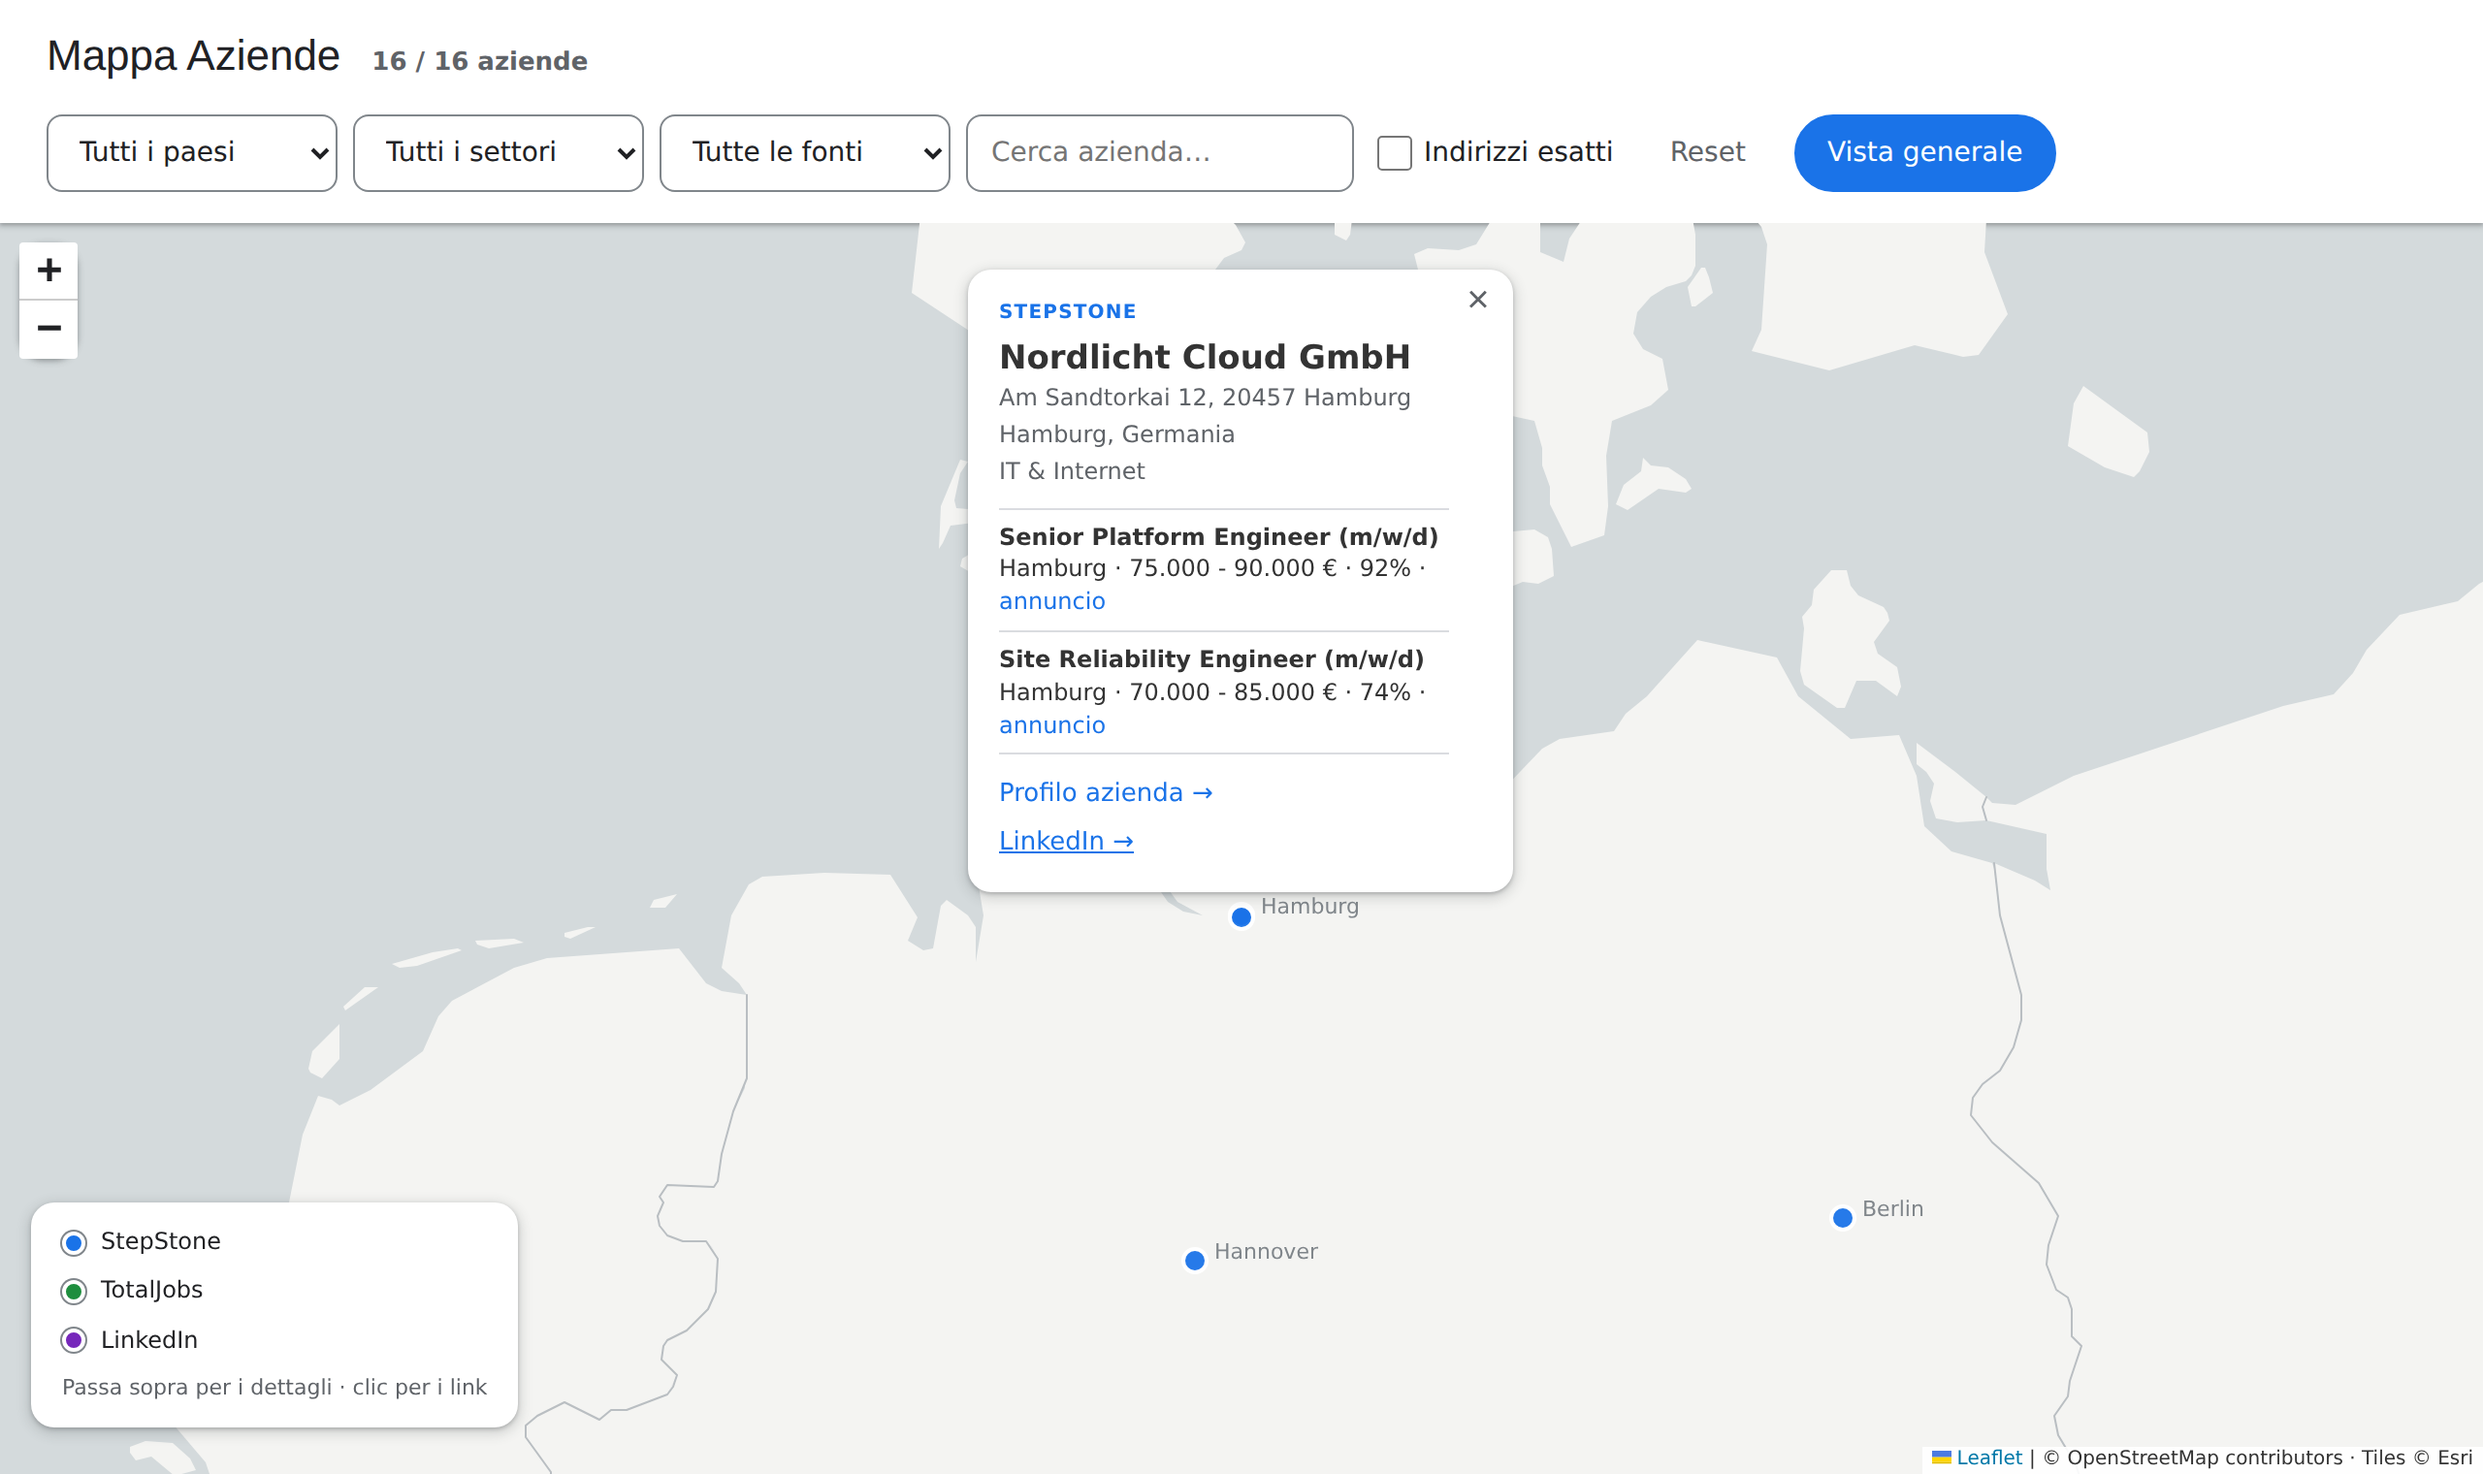
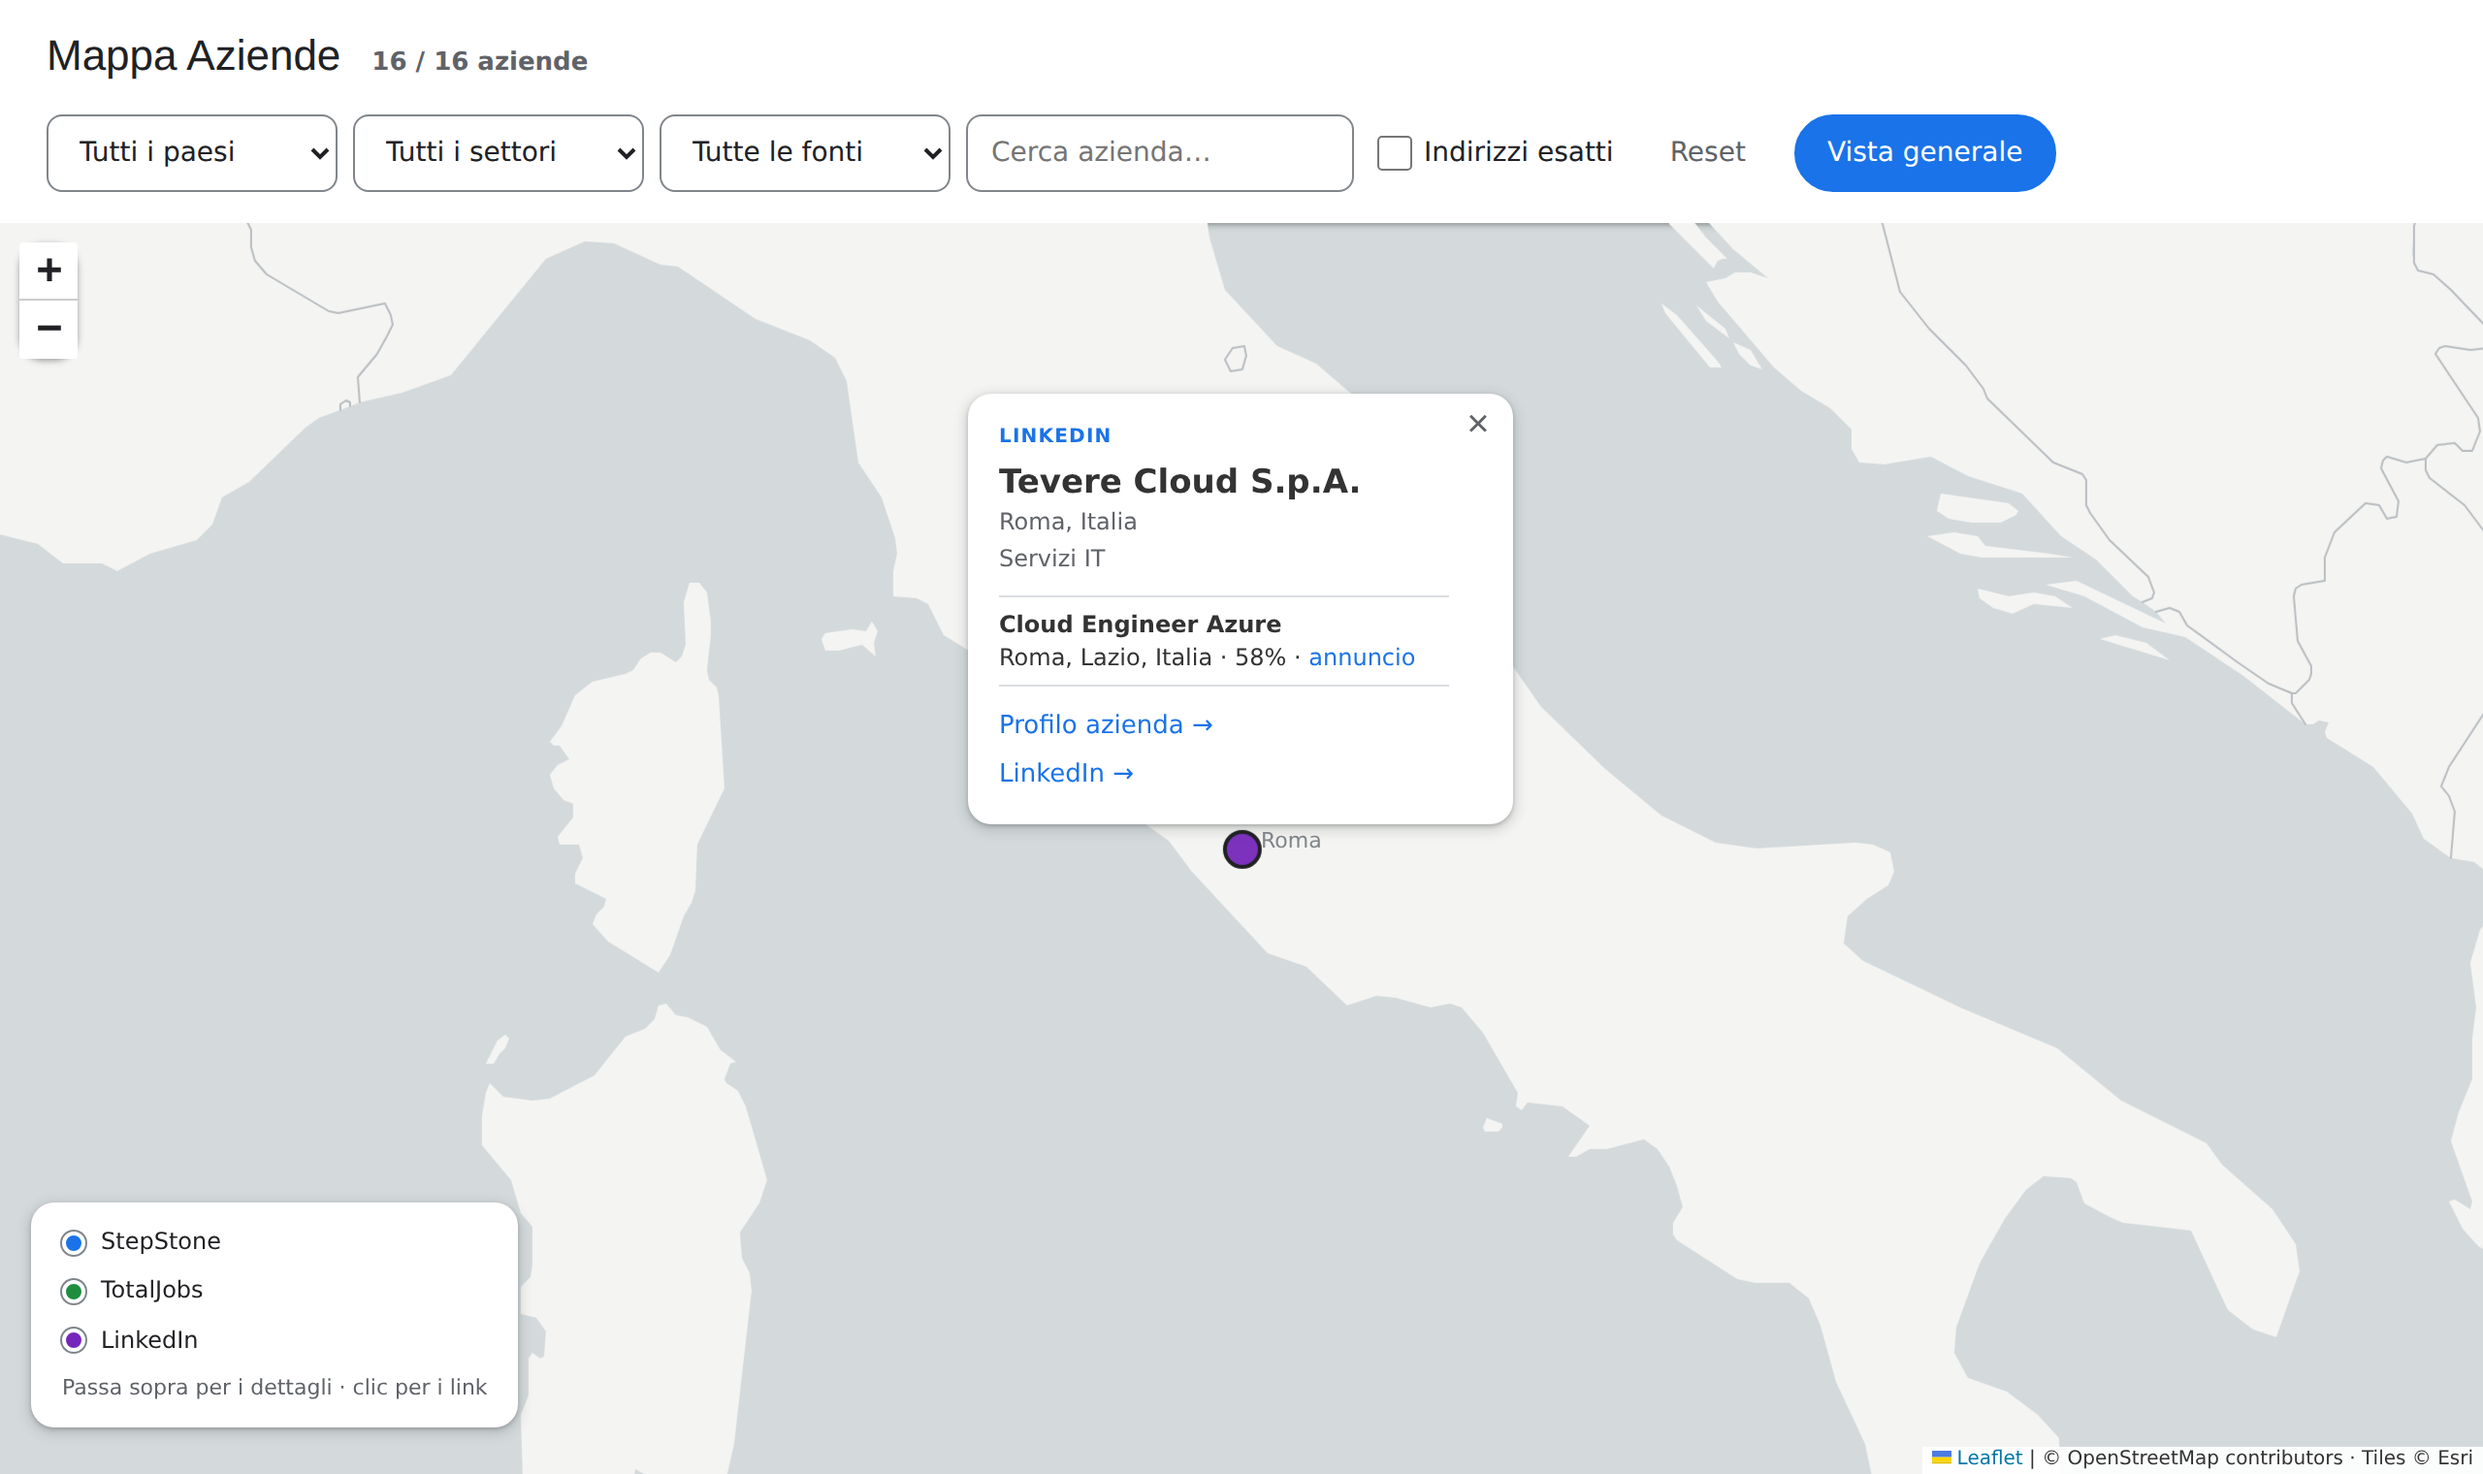
Center README map screenshots on Rome
Claude-Session: https://claude.ai/code/session_01WE1ZoCnNu9hCNJXKZp3jeu

diff --git a/docs/tools/screenshots.js b/docs/tools/screenshots.js
@@ -209,21 +209,23 @@ const settle = (page, ms = 400) => page.waitForTimeout(ms);
     await page.context().close();
   }
 
-  // Mappa: panoramica e scheda di un'azienda
+  // Mappa: panoramica e scheda di un'azienda, entrambe centrate su Roma
+  const ROMA = [41.903, 12.496];
   {
     const store = resultsStore();
     const page = await openPage(browser, 'map.html', store, { width: 1280, height: 760 });
     await settle(page, 600);
     await drawBasemap(page);
+    await page.evaluate((ll) => window.__map.setView(ll, 5, { animate: false }), ROMA);
     await settle(page, 300);
     await shot(page, 'mappa.png');
 
-    // scheda di Nordlicht (Hamburg): clic sul marker
-    const pt = await page.evaluate(() => {
+    // scheda di Tevere Cloud (Roma): clic sul marker
+    const pt = await page.evaluate((ll) => {
       const m = window.__map;
-      m.setView([53.551, 9.994], 7, { animate: false });
-      return m.latLngToContainerPoint([53.551, 9.994]);
-    });
+      m.setView(ll, 7, { animate: false });
+      return m.latLngToContainerPoint(ll);
+    }, ROMA);
     await settle(page, 300);
     const mapBox = await page.locator('#map').boundingBox();
     await page.mouse.click(mapBox.x + pt.x, mapBox.y + pt.y);

diff --git a/README.md b/README.md
@@ -163,7 +163,7 @@ Il pulsante **Mappa** nel popup apre `map.html` in una nuova scheda: le aziende 
 - **Aggiornamento live**: una nuova estrazione in un'altra scheda aggiorna la mappa senza spostare la vista.
 - **Rete**: la mappa carica le tessere (sfondo grigio) da `server.arcgisonline.com`, con © OpenStreetMap ed Esri. Quella richiesta rivela al server l'area che guardi e il tuo indirizzo IP, ma **nessun dato estratto viene inviato** (salvo gli indirizzi delle sedi, e solo con *Indirizzi esatti*). Leaflet è incluso in `vendor/leaflet/` (BSD-2-Clause).
 
-![Scheda di un'azienda sulla mappa: indirizzo della sede, settore, annunci e link](docs/screenshots/mappa-scheda.png)
+![Scheda di un'azienda sulla mappa (Roma): sede, settore, annunci e link](docs/screenshots/mappa-scheda.png)
 
 ### Indirizzi esatti
 
